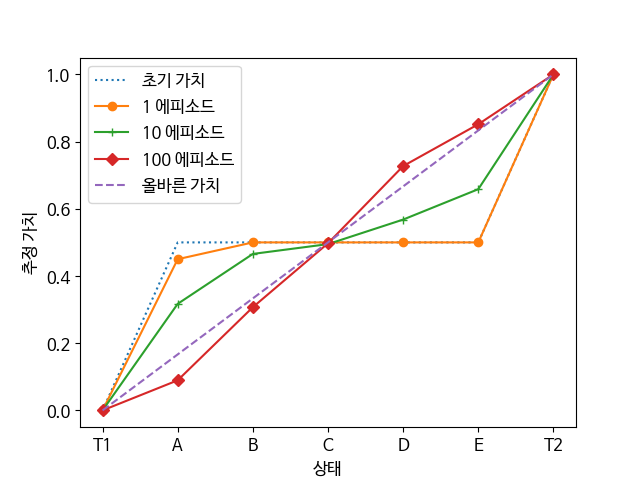
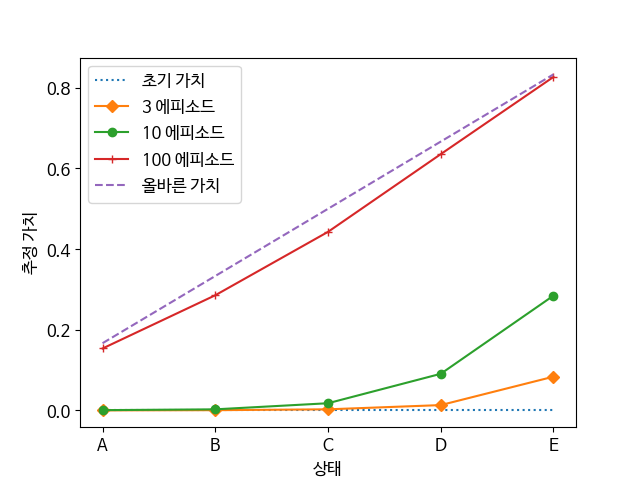
...

diff --git a/chapter_06/random_walk.py b/chapter_06/random_walk.py
@@ -3,56 +3,67 @@ import matplotlib as mpl
 import matplotlib.pyplot as plt
 from tqdm import tqdm
 
+from environments.randomwalk import RandomWalk
+
 plt.rcParams["font.family"] = 'NanumBarunGothic'
 plt.rcParams["font.size"] = 12
 mpl.rcParams['axes.unicode_minus'] = False
 
+NUM_INTERNAL_STATES = 5
+
 # 0: 왼쪽 종료 상태 T1를 나타냄, 상태 가치는 0.0으로 변하지 않음
 # 6: 오른쪽 종료 상태 T2를 나타냄, 상태 가치는 1.0으로 변하지 않음
 # 1부터 5는 각각 차례로 상태 A부터 상태 E를 나타냄, 각 상태 가치는 0.5로 초기화됨
-VALUES = np.zeros(7)
-VALUES[0] = 0.0
-VALUES[6] = 1.0
-VALUES[1:6] = 0.5
+VALUES = np.zeros(NUM_INTERNAL_STATES)
 
 # 올바른 상태 가치 값 저장
-TRUE_VALUE = np.zeros(7)
-TRUE_VALUE[0] = 0.0
-TRUE_VALUE[6] = 1.0
-TRUE_VALUE[1:6] = np.arange(1, 6) / 6.0
+TRUE_VALUE = np.zeros(NUM_INTERNAL_STATES)
+TRUE_VALUE[0:5] = np.arange(1, 6) / 6.0
 
 # 종료 상태를 제외한 임의의 상태에서 동일한 확률로 왼쪽 이동 또는 오른쪽 이동
 LEFT_ACTION = 0
 RIGHT_ACTION = 1
 
+# 모든 상태에서 수행 가능한 행동에 맞춰 임의의 정책을 생성함
+# 초기에 각 행동의 선택 확률은 모두 같음
+def generate_initial_random_policy(env):
+    policy = dict()
+
+    for state in env.observation_space.STATES:
+        actions = []
+        prob = []
+        for action in range(env.action_space.num_actions):
+            actions.append(action)
+            prob.append(0.5)
+        policy[state] = (actions, prob)
+
+    return policy
+
 
 # @values: 현재의 상태 가치
 # @alpha: 스텝 사이즈
 # @batch: 배치 업데이트 유무
-def temporal_difference(values, alpha=0.1, batch=False):
-    state = 3
-    trajectory = [state]
+def temporal_difference(env, policy, state_values, alpha=0.1, batch=False):
+    env.reset()
+    trajectory = [env.current_state]
     rewards = [0]
-    while True:
-        old_state = state
-
-        # np.random.binomial의 첫번째 인수 n은 시행 횟수를 의미, n=1 이므로 1개의 값이 샘플링됨
-        if np.random.binomial(n=1, p=0.5) == LEFT_ACTION:
-            state -= 1
-        else:
-            state += 1
-
-        # 일단 모든 보상은 0으로 설정됨
-        reward = 0
-        trajectory.append(state)
+    done = False
+    state = env.current_state
+    while not done:
+        actions, prob = policy[state]
+        action = np.random.choice(actions, size=1, p=prob)[0]
+        next_state, reward, done, _ = env.step(action)
 
         # TD 갱신 수행
         if not batch:
-            values[old_state] += alpha * (reward + values[state] - values[old_state])
+            if done:
+                state_values[state] += alpha * (reward - state_values[state])
+            else:
+                state_values[state] += alpha * (reward + state_values[next_state] - state_values[state])
 
-        if state == 6 or state == 0:
-            break
+        state = next_state
 
+        trajectory.append(state)
         rewards.append(reward)
 
     if batch:
@@ -92,20 +103,21 @@ def constant_alpha_monte_carlo(values, alpha=0.1, batch=False):
 
 
 # 실전 연습의 왼쪽 그래프
-def compute_state_values():
-    episodes = [0, 1, 10, 100]
+def compute_state_values(env):
+    policy = generate_initial_random_policy(env)
+    episodes = [3, 10, 100]
     markers = ['o', '+', 'D']
     plt.figure()
-    V = np.copy(VALUES)
-    plt.plot(['T1', 'A', 'B', 'C', 'D', 'E', 'T2'], V, label='초기 가치', linestyle=":")
+    state_values = VALUES
+    plt.plot(['A', 'B', 'C', 'D', 'E'], state_values, label='초기 가치', linestyle=":")
 
-    for i in range(1, len(episodes)):
-        V = np.copy(VALUES)
+    for i in range(len(episodes)):
+        state_values = VALUES.copy()
         for _ in range(episodes[i]):
-            temporal_difference(V)
-        plt.plot(['T1', 'A', 'B', 'C', 'D', 'E', 'T2'], V, label=str(episodes[i]) + ' 에피소드', marker=markers[i-1])
+            temporal_difference(env, policy, state_values)
+        plt.plot(['A', 'B', 'C', 'D', 'E'], state_values, label=str(episodes[i]) + ' 에피소드', marker=markers[i-1])
 
-    plt.plot(['T1', 'A', 'B', 'C', 'D', 'E', 'T2'], TRUE_VALUE, label='올바른 가치', linestyle="--")
+    plt.plot(['A', 'B', 'C', 'D', 'E'], TRUE_VALUE, label='올바른 가치', linestyle="--")
 
     plt.xlabel('상태')
     plt.ylabel('추정 가치')
@@ -225,7 +237,13 @@ def batch_updating_execution_alpha():
 
 
 if __name__ == '__main__':
-    # compute_state_values()
+    env = RandomWalk(
+        num_internal_states=NUM_INTERNAL_STATES,
+        transition_reward=0.0,
+        left_terminal_reward=0.0,
+        right_terminal_reward=1.0
+    )
+    compute_state_values(env)
     # rms_errors()
     # batch_updating_execution_episode()
-    batch_updating_execution_alpha()
+    # batch_updating_execution_alpha()

diff --git a/environments/randomwalk.py b/environments/randomwalk.py
@@ -1,0 +1,141 @@
+import time
+
+import gym
+
+# -------------------------------
+# T1 0 1 2 3 4 T2
+# -------------------------------
+
+
+class RandomWalk(gym.Env):
+    def __init__(
+            self,
+            num_internal_states=5,
+            transition_reward=0.0,
+            left_terminal_reward=0.0,
+            right_terminal_reward=1.0
+    ):
+        self.__version__ = "0.0.1"
+
+        self.num_internal_states = num_internal_states
+        self.observation_space = gym.spaces.Discrete(num_internal_states + 2)
+        self.action_space = gym.spaces.Discrete(2)
+
+        self.observation_space.num_states = num_internal_states + 2
+        self.observation_space.STATES = [i for i in range(num_internal_states)]
+        self.observation_space.TERMINAL_STATES = ['T1', 'T2']
+
+        # 모든 가능한 행동
+        self.action_space.ACTION_LEFT = 0
+        self.action_space.ACTION_RIGHT = 1
+        self.action_space.ACTION_SYMBOLS = ["\u2190", "\u2192"]
+        self.action_space.ACTIONS = [
+            self.action_space.ACTION_LEFT,
+            self.action_space.ACTION_RIGHT
+        ]
+        self.action_space.num_actions = len(self.action_space.ACTIONS)
+
+        # 시작 상태 위치
+        self.observation_space.START_STATE = self.observation_space.STATES[int(num_internal_states / 2)]
+
+        # 최대 타임 스텝
+        self.max_steps = float('inf')
+
+        self.transition_reward = transition_reward
+
+        self.left_terminal_reward = left_terminal_reward
+
+        self.right_terminal_reward = right_terminal_reward
+
+        self.current_state = None
+
+    def reset(self):
+        self.current_state = self.observation_space.START_STATE
+        return self.current_state
+
+    def moveto(self, state):
+        self.current_state = state
+
+    def get_next_state(self, state, action):
+        if state in self.observation_space.TERMINAL_STATES:
+            next_state = state
+        else:
+            if action == self.action_space.ACTION_LEFT:
+                if state == 0:
+                    next_state = 'T1'
+                else:
+                    next_state = state - 1
+            elif action == self.action_space.ACTION_RIGHT:
+                if state == self.num_internal_states - 1:
+                    next_state = 'T2'
+                else:
+                    next_state = state + 1
+            else:
+                raise ValueError()
+
+        return next_state
+
+    def get_reward(self, state, next_state):
+        if next_state == 'T1':
+            reward = self.left_terminal_reward
+        elif next_state == 'T2':
+            reward = self.right_terminal_reward
+        else:
+            reward = self.transition_reward
+
+        return reward
+
+    def get_state_action_probability(self, state, action):
+        next_state = self.get_next_state(state, action)
+
+        reward = self.get_reward(state, next_state)
+        prob = 1.0
+
+        return next_state, reward, prob
+
+    # take @action in @state
+    # @return: (reward, new state)
+    def step(self, action):
+        next_state = self.get_next_state(state=self.current_state, action=action)
+
+        reward = self.get_reward(self.current_state, next_state)
+
+        self.current_state = next_state
+
+        if self.current_state in self.observation_space.TERMINAL_STATES:
+            done = True
+        else:
+            done = False
+
+        return next_state, reward, done, None
+
+    def render(self, mode='human'):
+        print(" T1 " + " ".join(["{0}".format(i) for i in range(self.num_internal_states)]) + " T2")
+        if self.current_state in self.observation_space.STATES:
+            blank = "    " + "  " * self.current_state
+        elif self.current_state == 'T1':
+            blank = " "
+        elif self.current_state == 'T2':
+            blank = "  " + "  " * (self.num_internal_states + 1)
+        else:
+            raise ValueError()
+
+        print(blank + str(self.current_state), flush=True)
+        print()
+
+
+def main():
+    env = RandomWalk()
+    env.reset()
+    env.render()
+
+    done = False
+    while not done:
+        action = env.action_space.sample()
+        next_state, reward, done, _ = env.step(action)
+        env.render()
+        time.sleep(1)
+
+
+if __name__ == "__main__":
+    main()
